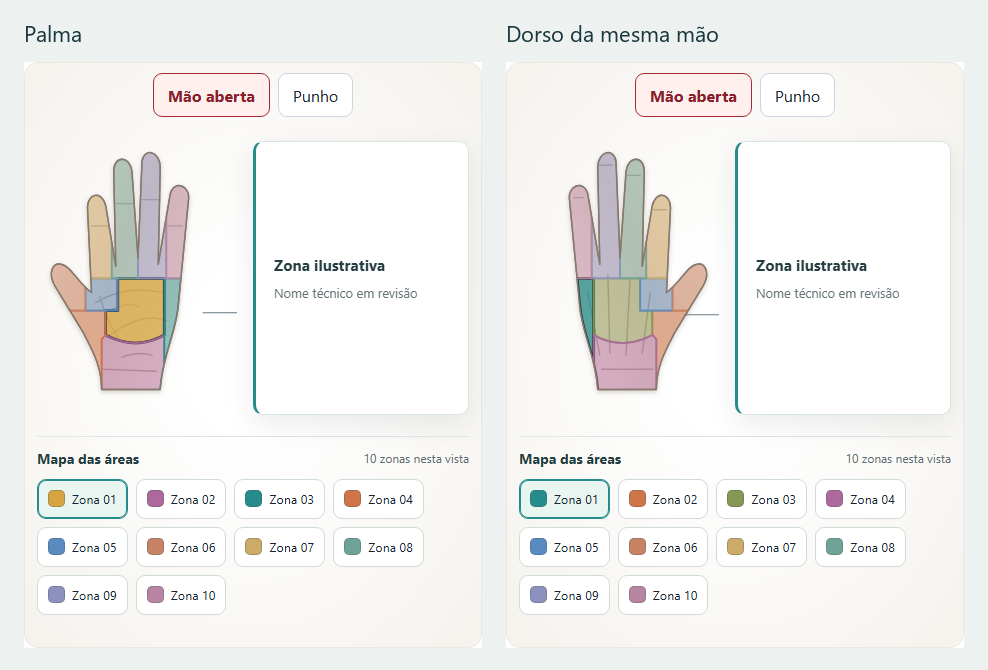
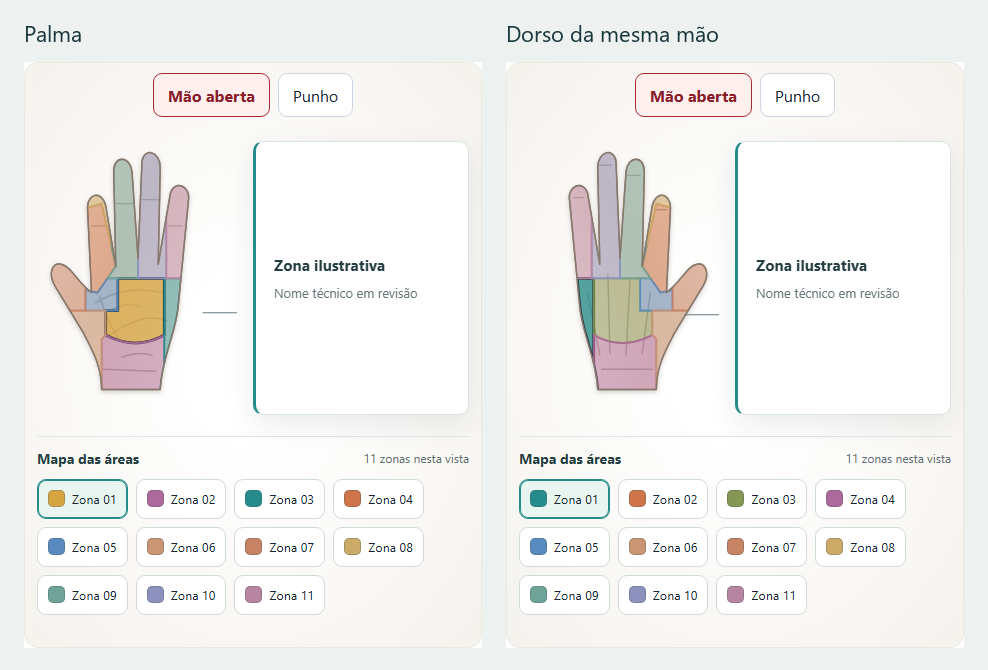
fix(atlas): preserve technical thumb-side mapping

diff --git a/src/components/atlas/surfaces.ts b/src/components/atlas/surfaces.ts
@@ -15,20 +15,21 @@ export const fistOutline = 'M26 114 L25 93 C16 85 13 74 13 61 L15 43 C16 35 27 3
 // Os paths de partição terminam na silhueta pelo clipPath do DetailMap.
 const palm = 'M40 70 H63 V98 Q49 106 34 98 V86 H40 Z';
 const handBase = 'M34 98 Q49 106 63 98 V140 H32 V100 Z';
-const handWeb = 'M24 70 H40 V86 H24 Z';
+const handWeb = 'M24 70 H25 V76 L30 77 L34.846153846 70 H40 V86 H24 Z';
 const heel = 'M0 110 L32 112 L48 115 L65 112 L100 110 V140 H0 Z';
 export const surfaces: Record<string, Surface> = {
   sonbadak: {path:palm,color:'#d6a541',view:'front',anchor:[49,87]},
   batangson: {path:handBase,color:'#ad699b',view:'front',anchor:[48,112]},
   sonnal: {path:'M63 70 L71.25 70 L70 83 C69 97 62 108 61 125 H63 Z',color:'#258c8b',view:'both',anchor:[67,88]},
-  sonnaldeung: {path:'M0 86 H34 V98 L32 100 V140 H0 Z',color:'#cf7549',view:'both',anchor:[28,96]},
+  sonnaldeung: {path:'M25 35 L32 33 L39 64 L30 77 L25 76 Z',color:'#cf7549',view:'both',anchor:[28,50]},
   ageumson: {path:handWeb,color:'#598bc0',view:'front',anchor:[31,79]},
   sondeung: {path:palm,color:'#859753',view:'back',anchor:[49,87]},
   'illustration-hand-base': {path:handBase,color:'#ad699b',view:'back',anchor:[48,112]},
   'illustration-hand-web': {path:handWeb,color:'#598bc0',view:'back',anchor:[31,79]},
+  'illustration-hand-side': {path:'M0 86 H34 V98 L32 100 V140 H0 Z',color:'#c99573',view:'both',anchor:[28,96]},
   'illustration-thumb': {path:'M0 0 H24 V86 H0 Z',color:'#c88264',view:'both',anchor:[16,74]},
-  'illustration-finger-index': {path:'M24 0 H37 V70 H24 Z',color:'#ccaa68',view:'both',anchor:[31,52]},
-  'illustration-finger-middle': {path:'M37 0 H50 V70 H37 Z',color:'#70a398',view:'both',anchor:[44,46]},
+  'illustration-finger-index': {path:'M24 0 H37 V55.142857143 L32 33 L25 35 H24 Z',color:'#ccaa68',view:'both',anchor:[30,32]},
+  'illustration-finger-middle': {path:'M37 0 H50 V70 H34.846153846 L39 64 L37 55.142857143 Z',color:'#70a398',view:'both',anchor:[44,46]},
   'illustration-finger-ring': {path:'M50 0 H64 V70 H50 Z',color:'#8c91be',view:'both',anchor:[56,45]},
   'illustration-finger-little': {path:'M64 0 H100 V70 H64 Z',color:'#b784a2',view:'both',anchor:[69,53]},
   jumeok: {path:'M0 0 H100 V56 H0 Z',color:'#cf7549',view:'both',posture:'fist',anchor:[48,44]},
@@ -49,7 +50,7 @@ export const surfaces: Record<string, Surface> = {
 // Novas divisões têm IDs ilustrativos, sem inventar terminologia técnica.
 export const handSurfaceSlugs = [
   'sonbadak', 'batangson', 'sonnal', 'sonnaldeung', 'ageumson', 'sondeung',
-  'illustration-hand-base', 'illustration-hand-web', 'illustration-thumb',
+  'illustration-hand-base', 'illustration-hand-web', 'illustration-hand-side', 'illustration-thumb',
   'illustration-finger-index', 'illustration-finger-middle',
   'illustration-finger-ring', 'illustration-finger-little',
   'jumeok', 'deungjumeok', 'mejumeok', 'illustration-fist-palm', 'illustration-fist-base',

diff --git a/tests/e2e/atlas-anatomy.spec.ts b/tests/e2e/atlas-anatomy.spec.ts
@@ -4,6 +4,31 @@ async function emptyCatalog(page:Page) {
   await page.route('**/rest/v1/**',route=>route.fulfill({json:[]}));
 }
 
+test('região técnica da borda do polegar mantém posição ao refinar os dedos',async({page})=>{
+  await page.route('**/rest/v1/**',route=>{
+    const table=new URL(route.request().url()).pathname.split('/').pop();
+    return route.fulfill({json:table==='body_regions'?[{
+      id:'edge',slug:'sonnaldeung',name_pt:'Borda da mão do lado do polegar',
+      region_group:'hands',atlas_area:'hands',detail_view:'both',detail_x:28,detail_y:50,
+    }]:[]});
+  });
+  await page.goto('/atlas?region=hands&zoom=1');
+  await expect(page.locator('.detail-svg [data-region="sonnaldeung"]')).toHaveAttribute('aria-label','Borda da mão do lado do polegar');
+  for(const view of ['Palma','Dorso']){
+    await page.getByRole('button',{name:view,exact:true}).click();
+    await page.locator('.detail-svg').scrollIntoViewIfNeeded();
+    const hits=await page.locator('.anatomy-geometry').evaluate(group=>{
+      const matrix=(group as SVGGraphicsElement).getScreenCTM()!;
+      return [[27,50],[28,96]].map(([x,y])=>{
+        const point=new DOMPoint(x,y).matrixTransform(matrix);
+        return document.elementFromPoint(point.x,point.y)?.closest('[data-region]')?.getAttribute('data-region');
+      });
+    });
+    expect(hits[0]).toBe('sonnaldeung');
+    expect(hits[1]).toBe('illustration-hand-side');
+  }
+});
+
 test('zona em revisão tem apenas duas linhas e não consulta ficha técnica',async({page})=>{
   await emptyCatalog(page);
   const queries:string[]=[];

diff --git a/tests/e2e/atlas-polish.spec.ts b/tests/e2e/atlas-polish.spec.ts
@@ -129,7 +129,7 @@ test("legenda anatômica navega pelos recortes sem mostrar termos não aprovados
   const legend=page.getByRole("navigation",{name:"Selecionar zona ilustrada"});
   await expect(legend).toBeVisible();
   const buttons=legend.getByRole("button");
-  await expect(buttons).toHaveCount(10);
+  await expect(buttons).toHaveCount(11);
   await buttons.nth(1).click();
   await expect(buttons.nth(1)).toHaveAttribute("aria-pressed","true");
   await expect(page.getByRole("tooltip")).toHaveText("Zona ilustrativaNome técnico em revisão");
@@ -140,7 +140,7 @@ test("legenda anatômica navega pelos recortes sem mostrar termos não aprovados
   const after=await inspector.boundingBox();
   expect(Math.abs((before?.height||0)-(after?.height||0))).toBeLessThan(1);
   await page.getByRole("button",{name:"Dorso",exact:true}).click();
-  await expect(buttons).toHaveCount(10);
+  await expect(buttons).toHaveCount(11);
   await page.getByRole("button",{name:"Punho",exact:true}).click();
   // Dorso do punho: punho, dorso do punho e borda do punho.
   await expect(buttons).toHaveCount(4);

diff --git a/docs/superpowers/plans/2026-11-05-atlas-compact-anatomy.md b/docs/superpowers/plans/2026-11-05-atlas-compact-anatomy.md
@@ -40,7 +40,7 @@ SVG local em `surfaces.ts` e estilos do inspetor.
 - [x] `npm run check` e `npm test`: sem erros.
 - [x] `npm run test:ui`: todos os cenários desktop/mobile aprovados.
 - [x] Revisão independente do diff; corrigir problemas bloqueantes.
-- [ ] Commit, push da branch e uma PR para `main`; observar resultado da CI.
+- [x] Commit, push da branch e uma PR para `main`; observar resultado da CI.
 
 Expected: configurações, credenciais, banco, registros editoriais e publicação
 oficial permanecem intocados. Nenhuma execução do workflow manual de deploy.
@@ -49,8 +49,8 @@ oficial permanecem intocados. Nenhuma execução do workflow manual de deploy.
 ## Evidências
 
 - Cinco cenários novos falharam antes da implementação.
-- 66 testes de interface aprovados em desktop/celular; 49 testes locais aprovados.
+- 68 testes de interface aprovados em desktop/celular; 49 testes locais aprovados.
 - Revisão independente verificou cobertura sem lacunas/sobreposições nas seis combinações de mão/punho/pé e vista.
 - O problema de Tab identificado na revisão ganhou regressão RED e correção: foco por teclado preserva a ficha selecionada.
 - O conector lateral permanece no espaço externo reservado; a linha inferior acompanha o espelhamento.
-
+- A revisão automática da PR identificou deslocamento da borda técnica do polegar; o path original foi preservado e o hit testing nas duas vistas ganhou regressão RED→GREEN.
